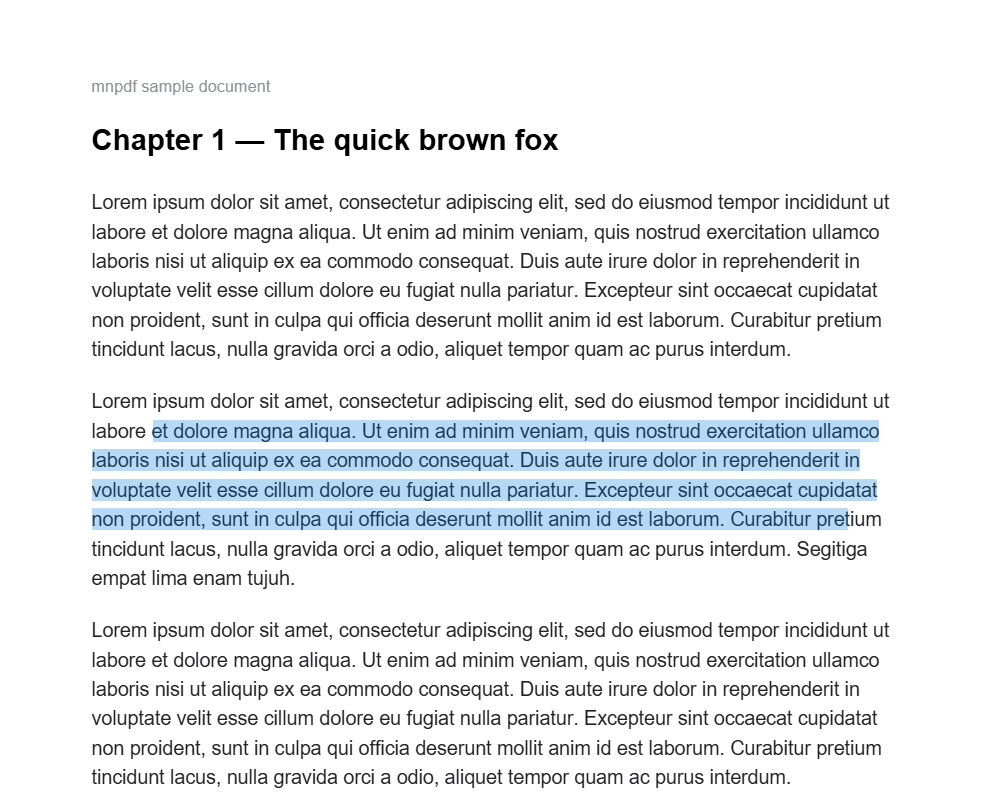
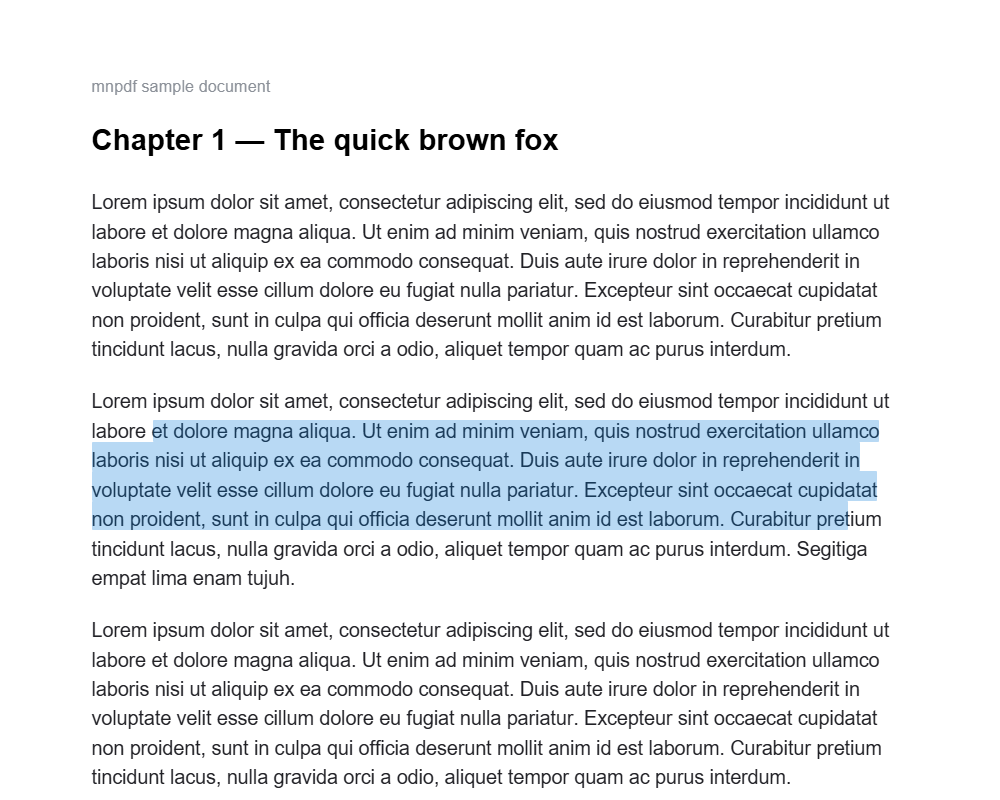
v1.1: contiguous selection lines (no leading stripes), edge auto-scroll while selecting with live extension, flex safe-center page layout + resize refit

Changed region(s): [[0.093, 0.5312, 0.868, 0.6562]]

diff --git a/src/annos.js b/src/annos.js
@@ -101,6 +101,7 @@ function layerSpans(layer) {
 }
 
 function lineAt(boxes, x, y) {
+  if (!boxes.length) return null;
   let best = null, bestD = Infinity;
   for (const b of boxes) {
     if (y >= b.top - 3 && y <= b.bottom + 3) return b;
@@ -129,6 +130,7 @@ function segmentsBetween(a, b) {
   const bBoxes = b.boxes || a.boxes;
   const iA = a.boxes.indexOf(a.vis);
   const iB = bBoxes.indexOf(b.vis);
+  if (iA === -1 || iB === -1) return []; // anchor/focus spans re-rendered away
   const [first, last] = iA <= iB ? [a, b] : [b, a];
   const fi = Math.min(iA, iB), li = Math.max(iA, iB);
   const segs = [];
@@ -146,6 +148,12 @@ function segmentsBetween(a, b) {
     if (ex - sx < 0.5) continue;
     segs.push({ vis, sx, ex, sOff, eOff });
   }
+  // continuous block: each line extends down to where the next one starts,
+  // so no unpainted leading stripes between selected lines
+  for (let i = 1; i < segs.length; i++) {
+    const prevBottom = segs[i - 1].vis.bottom;
+    if (segs[i].vis.top > prevBottom) segs[i].topPx = prevBottom;
+  }
   return segs;
 }
 
@@ -159,7 +167,8 @@ function drawSelection(segs, wrapEl, vp, wr) {
   const rects = [];
   const parts = [];
   for (const seg of segs) {
-    const p1 = vp.convertToPdfPoint(seg.sx - wr.left, seg.vis.top - wr.top);
+    const topPx = seg.topPx ?? seg.vis.top;
+    const p1 = vp.convertToPdfPoint(seg.sx - wr.left, topPx - wr.top);
     const p2 = vp.convertToPdfPoint(seg.ex - wr.left, seg.vis.bottom - wr.top);
     rects.push([
       Math.min(p1[0], p2[0]), Math.min(p1[1], p2[1]),
@@ -235,6 +244,8 @@ function initManualSelection() {
         return;
       }
       selAnchor = { node: a.node, off: a.off, vis: a.vis, layer: tlEl, boxes };
+      selPointer = { x: e.clientX, y: e.clientY };
+      startSelAutoScroll();
     },
     true,
   );
@@ -242,26 +253,65 @@ function initManualSelection() {
     'mousemove',
     (e) => {
       if (!selAnchor || !(e.buttons & 1)) return;
-      const focus = anchorAt(selAnchor.boxes, e.clientX, e.clientY);
-      if (!focus) return;
-      const last = selLastApplied;
-      if (last && last.node === focus.node && last.off === focus.off) return;
-      selLastApplied = focus;
-      const anchor = { node: selAnchor.node, off: selAnchor.off, vis: selAnchor.vis, boxes: selAnchor.boxes };
-      const segs = segmentsBetween(anchor, focus);
-      selState = drawSelection(segs, selAnchor.layer.closest('.pagewrap'), viewportFor(+selAnchor.layer.closest('.pagewrap').dataset.i), selAnchor.layer.closest('.pagewrap').getBoundingClientRect());
-      renderSelection();
+      selPointer = { x: e.clientX, y: e.clientY };
+      // fresh boxes: the page may have auto-scrolled since the press
+      applySelectionAt(e.clientX, e.clientY);
     },
     true,
   );
-  document.addEventListener('mouseup', () => { selAnchor = null; }, true);
-  document.addEventListener('pointercancel', () => { selAnchor = null; });
-  window.addEventListener('blur', () => { selAnchor = null; });
+  document.addEventListener('mouseup', () => { selAnchor = null; stopSelAutoScroll(); }, true);
+  document.addEventListener('pointercancel', () => { selAnchor = null; stopSelAutoScroll(); });
+  window.addEventListener('blur', () => { selAnchor = null; stopSelAutoScroll(); });
   document.addEventListener('keydown', (e) => {
-    if (e.key === 'Escape' && selState) clearSelection();
+    if (e.key === 'Escape' && selState) { clearSelection(); selAnchor = null; stopSelAutoScroll(); }
   });
   document.addEventListener('mnpdf:scroll', renderSelection);
   document.addEventListener('mnpdf:zoom', renderSelection);
+}
+
+let selPointer = null;
+let selRaf = 0;
+
+function applySelectionAt(x, y) {
+  const boxes = layerSpans(selAnchor.layer);
+  // re-resolve the anchor's box in the CURRENT viewport (scroll may have moved it)
+  const aVis = boxes.find((b) => b.node === selAnchor.node);
+  if (!aVis) return;
+  const focus = anchorAt(boxes, x, y);
+  if (!focus) return;
+  const last = selLastApplied;
+  if (last && last.node === focus.node && last.off === focus.off) return;
+  const anchor = { node: selAnchor.node, off: selAnchor.off, vis: aVis, boxes };
+  const segs = segmentsBetween(anchor, focus);
+  if (!segs.length) return; // mid-re-render: keep the previous selection
+  selLastApplied = focus;
+  selState = drawSelection(segs, selAnchor.layer.closest('.pagewrap'), viewportFor(+selAnchor.layer.closest('.pagewrap').dataset.i), selAnchor.layer.closest('.pagewrap').getBoundingClientRect());
+  renderSelection();
+}
+
+// edge auto-scroll while selecting: hold near the top/bottom and the page
+// keeps scrolling, extending the selection as new lines come under the pointer
+function startSelAutoScroll() {
+  if (selRaf) return;
+  const scroller = document.getElementById('scroller');
+  const tick = () => {
+    if (!selAnchor || !selPointer) { selRaf = 0; return; }
+    const sr = scroller.getBoundingClientRect();
+    const M = 64;
+    let v = 0;
+    if (selPointer.y < sr.top + M) v = -Math.min(28, Math.ceil((sr.top + M - selPointer.y) * 0.35) + 3);
+    else if (selPointer.y > sr.bottom - M) v = Math.min(28, Math.ceil((selPointer.y - (sr.bottom - M)) * 0.35) + 3);
+    if (v) {
+      scroller.scrollTop += v;
+      applySelectionAt(selPointer.x, selPointer.y);
+    }
+    selRaf = requestAnimationFrame(tick);
+  };
+  selRaf = requestAnimationFrame(tick);
+}
+
+function stopSelAutoScroll() {
+  if (selRaf) { cancelAnimationFrame(selRaf); selRaf = 0; }
 }
 
 function rectsOverlap(a, b) {

diff --git a/src/commands.js b/src/commands.js
@@ -84,7 +84,6 @@ async function openBytes(bytes, path, name) {
     toast(msg, 3200);
     throw new Error(msg);
   }
-  const keepZoom = S.zoom;
   Object.assign(S, {
     path, name, bytes, pdf,
     nPages: pdf.numPages,
@@ -124,7 +123,6 @@ async function openBytes(bytes, path, name) {
   let top = 0;
   const st = path ? await loadDocState(path) : null;
   if (st) {
-    if (typeof st.zoom === 'number') S.zoom = clamp(st.zoom, 0.25, 6);
     if (typeof st.top === 'number') top = st.top - 1;
     if (st.hl) S.hlColor = st.hl;
     if (validAnns(st.anns)) {
@@ -146,9 +144,13 @@ async function openBytes(bytes, path, name) {
     );
     if (!dup) S.anns.push(ip);
   }
-  if (S.zoom === 0.5) S.zoom = viewer.fitZoom();
-  if (S.zoom === 0.5) S.zoom = keepZoom > 0.25 && keepZoom < 6 ? keepZoom : 1;
+  // zoom: sidecar value if present, else fit-width (paper touches the borders)
+  const savedZoom = st && typeof st.zoom === 'number' ? clamp(st.zoom, 0.25, 6) : null;
+  let fit = false;
+  if (savedZoom != null) S.zoom = savedZoom;
+  else { S.zoom = viewer.fitZoom(); fit = true; }
 
+  if (fit) viewer.markFit();
   viewer.buildPages();
   thumbs.refresh(true);
   viewer.goToDisplayPage(top);
@@ -254,7 +256,7 @@ export async function doSaveAs() {
 export function zoomIn() { viewer.setZoom(S.zoom * 1.2, viewer.zoomAnchorCenter()); }
 export function zoomOut() { viewer.setZoom(S.zoom / 1.2, viewer.zoomAnchorCenter()); }
 export function zoomReset() { viewer.setZoom(1, viewer.zoomAnchorCenter()); }
-export function zoomFit() { viewer.setZoom(viewer.fitZoom(), viewer.zoomAnchorCenter()); }
+export function zoomFit() { viewer.setZoom(viewer.fitZoom(), viewer.zoomAnchorCenter()); viewer.markFit(); }
 
 export function rotatePage(i, dir) {
   const before = S.pageList.map((p) => ({ ...p }));

diff --git a/src/viewer.js b/src/viewer.js
@@ -305,6 +305,7 @@ export function positionOverlays(force = false) {
 export function setZoom(nz, anchor) {
   nz = clamp(nz, 0.25, 6);
   if (Math.abs(nz - S.zoom) < 1e-4) return;
+  atFit = false;
   const sr = scroller.getBoundingClientRect();
   let ax = 0, ay = 0, hasA = false, boxL = 0, boxT = 0;
   if (anchor) {
@@ -332,6 +333,12 @@ export function setZoom(nz, anchor) {
 export function zoomAnchorCenter() {
   const sr = scroller.getBoundingClientRect();
   return { x: sr.left + scroller.clientWidth / 2, y: sr.top + scroller.clientHeight / 2 };
+}
+
+let atFit = false;
+
+export function markFit() {
+  atFit = true;
 }
 
 export function fitZoom() {
@@ -436,7 +443,9 @@ export function init() {
 
   window.addEventListener('resize', debounce(() => {
     if (!wraps.length) return;
+    if (atFit) S.zoom = fitZoom(); // keep touching the borders while at fit width
     measure();
+    layoutAll();
     scheduleRender();
     positionOverlays();
   }, 120));

diff --git a/src/style.css b/src/style.css
@@ -42,7 +42,10 @@ html, body {
 
 #pages {
   position: relative;
-  width: max-content;
+  display: flex;
+  flex-direction: column;
+  align-items: safe center;
+  width: fit-content;
   margin: 0 auto;
   padding: 8px 0 30px;
   min-width: 100%;
@@ -50,7 +53,8 @@ html, body {
 
 .pagewrap {
   position: relative;
-  margin: 0 auto 8px;
+  flex: none;
+  margin: 0 0 8px;
   background: #fff;
   box-shadow: 0 1px 3px rgba(0, 0, 0, 0.22), 0 6px 18px rgba(0, 0, 0, 0.10);
 }
